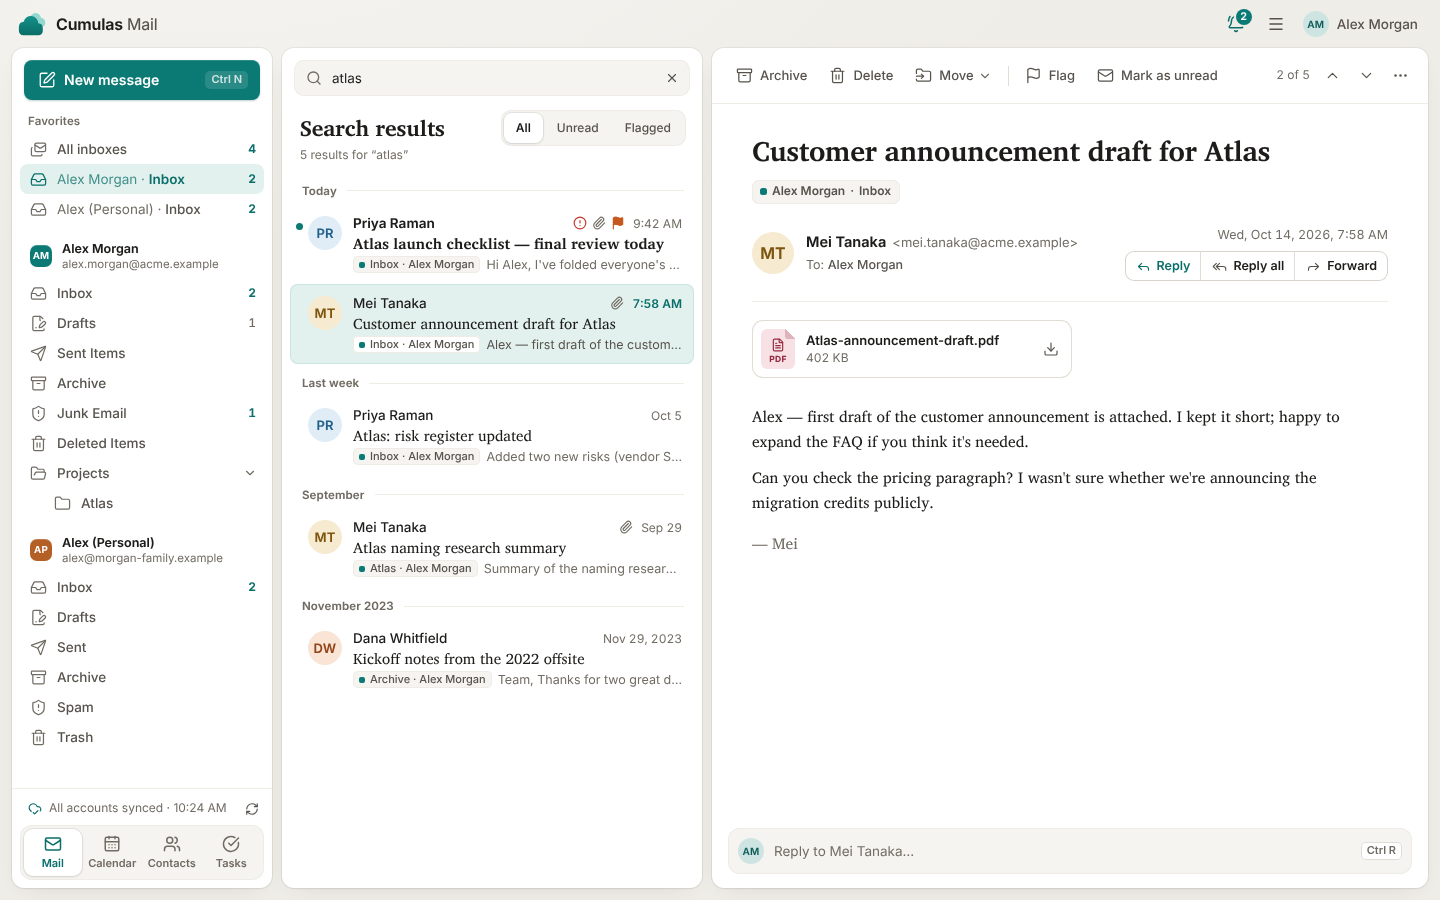
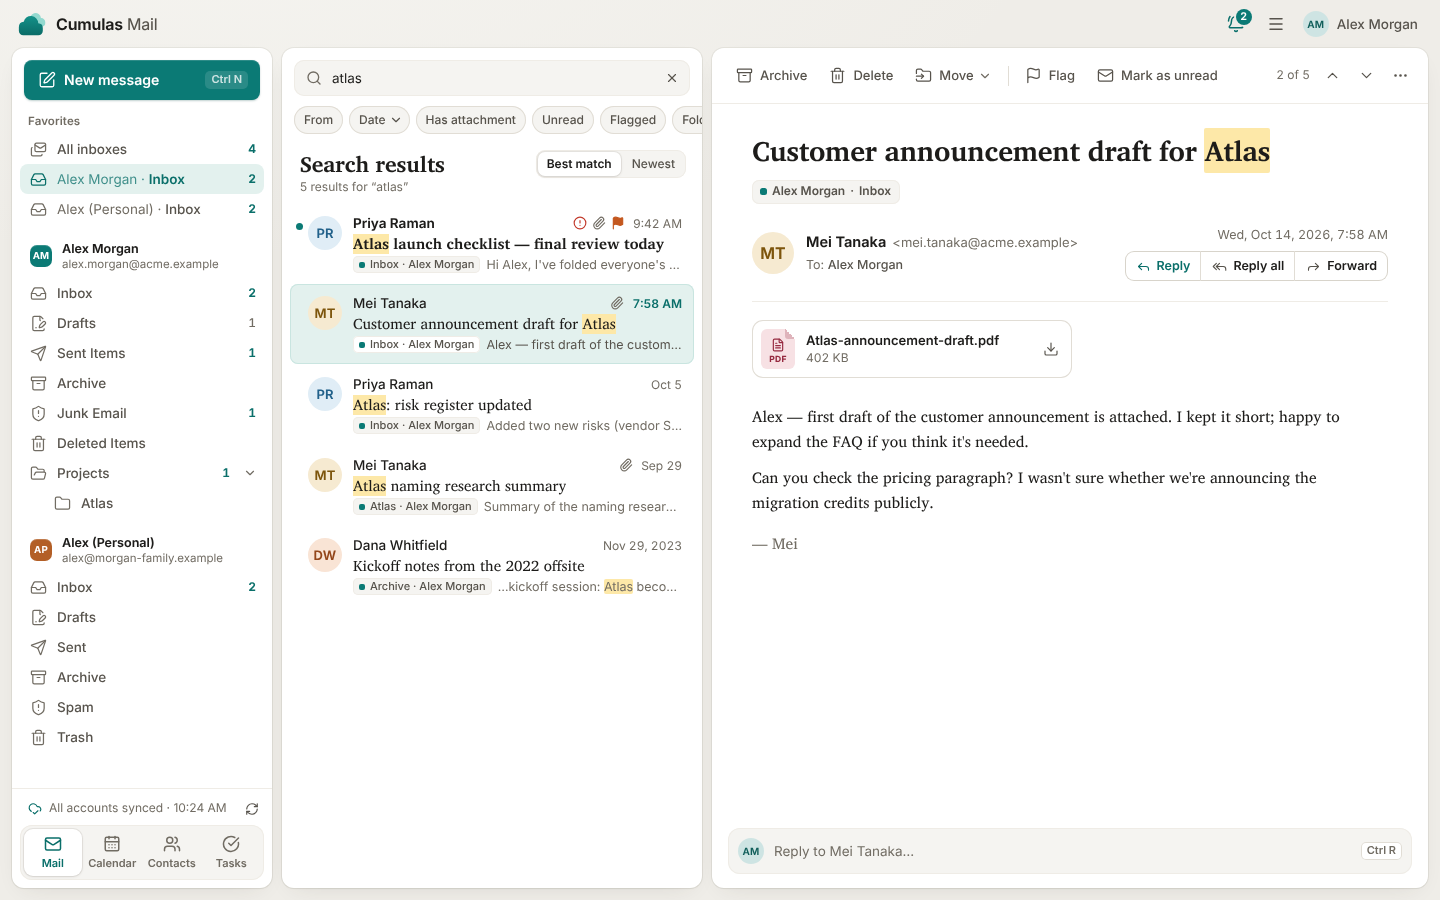
Document the better search
README's Search bullet lists the filters, best-match order, suggestions
and highlighting, and dates leave the "not built yet" list. PRIVACY
names the recent searches kept on the device and says the filters chosen
go to the mail servers with the words. The architecture's Search section
covers the query's filters, ranking on the device, the server paging and
post-filter, and the UI; Security describes the bridge's inbound
messages. The mail-search screenshot shows the filters, the sort and the
marked words.

Claude-Session: https://claude.ai/code/session_01AHi2wzzMsw64bPY9ZRUbF9

diff --git a/docs/architecture.md b/docs/architecture.md
@@ -21,7 +21,7 @@ system webview (WebKitGTK on Linux).
 │  reminders/ which reminders are due (a pure planner)               │
 │  signatures/ company signatures (Cumulas Signatures client)        │
 │  store/     SQLite cache (+ FTS5 full-text indexes)                │
-│  search/    the search language, for FTS5, Graph KQL, IMAP SEARCH  │
+│  search/    the search language and ranking, for FTS5, Graph, IMAP │
 │  providers/ MailProvider · CalendarProvider · ContactsProvider ·   │
 │             TasksProvider                                          │
 │     ├─ graph/  Microsoft 365 & Outlook.com (Microsoft Graph)       │
@@ -273,8 +273,22 @@ and offline, and each account's whole mailbox on its server, whose finds come
 in after.
 
 **The query** (`crates/core/src/search`): one parser for words, `"phrases"`,
-`from:`, `to:`, `cc:`, `subject:`, `body:` and `has:attachment`. Anything else
-is a word, and no input is an error (at most 16 terms). It becomes:
+`from:`, `to:`, `cc:`, `subject:`, `body:` and `has:attachment`, and the
+filters `is:unread`, `is:read`, `is:flagged`, `in:<folder>`,
+`account:<account>`, `received:`, `after:` and `before:`. Anything else is a
+word, a filter with a value it doesn't know is left out, and no input is an
+error (at most 16 terms, and 8 dates, folders and accounts). Dates
+(`dates.rs`) are a day (`2026-10-01`), a range for `received:`
+(`2026-10-01..2026-10-15`, open at either end) or one of KQL's words
+(`today`, `"this week"`, `"last month"`…), as days in the computer's time zone,
+with weeks starting on the day the UI's locale says; `after:` includes its
+day, `before:` doesn't, and clauses intersect. `in:` and `account:` values are
+kept as scope keys (`scope.rs`: composed, without quotes, backslashes or
+control characters, whitespace runs as one space, lowercased), and folder and
+account names are keyed alike before they're compared, so what the filters
+write always names its folder again; `in:` also takes a role (`inbox`, `sent`,
+`spam`…). Where to look alone, or `is:read`, is too little to ask the servers
+for. It becomes:
 
 - for the device (`fts.rs`), FTS5 matches on two indexes keyed by
   `messages.fts_rowid`, a rowid each message row keeps, so indexing or
@@ -283,32 +297,79 @@ is a word, and no input is an error (at most 16 terms). It becomes:
   subject, sender, To, Cc and body (a message's text once it's been opened, its
   preview before) and matches words by their start; `messages_infix`, a
   trigram index of subjects and senders, matches inside words from 3
-  characters ("voice" finds "Invoice");
-- for Microsoft Graph (`kql.rs`), KQL for `$search`: words as prefixes
-  (`invoi*`), matched in the sender, subject and body;
+  characters ("voice" finds "Invoice"). The filters are conditions on the
+  message rows;
+- for Microsoft Graph (`kql.rs`), KQL for `$search` when there are words:
+  words as prefixes (`invoi*`), matched in the sender, subject and body, and
+  the dates as `received>=MM/DD/YYYY` and `received<=MM/DD/YYYY`, a day wider
+  on each side (KQL compares dates in UTC). Without words, a `$filter` on
+  `receivedDateTime`, `isRead`, `flag/flagStatus` and `hasAttachments`;
 - for IMAP (`imap.rs`), `UID SEARCH` keys (`FROM`, `SUBJECT`…, which match
   substrings; a plain word is `OR`ed over sender, To, Cc, subject and body,
   where the device looks, not `TEXT`, which looks in every header too), with
   `CHARSET UTF-8` and literals only when a word isn't ASCII, in the case it
-  was typed in.
+  was typed in; `FLAGGED`, `SEEN` and `UNSEEN`; and `SINCE` and `BEFORE`,
+  which compare the day of `INTERNALDATE` in its own zone (anywhere from
+  UTC−12 to UTC+14), so they are widened to hold for any.
 
-The browser demo's backend (`src/api/mock/searchQuery.ts`) ports the parser
-and the local matching, tested on the same cases, so the UI's tests search the
-way the app does.
+The UI ports the parser to `src/lib/search/query.ts`, tested on the same
+cases, and the browser demo's backend (`src/api/mock/searchQuery.ts`) adds
+the local matching, so the UI's tests search the way the app does.
+
+**On this device** (`Store::search`), under one hold of the store: the
+messages that match and pass the filters, newest first, 5,000 at most, plus
+the server hits the UI passes back (`includeIds`), which the filters apply to
+too. A query with a plain, `subject:` or `body:` word is then ranked best
+first (`rank.rs`; `from:`, `to:` and `cc:` alone only pick by address, and
+list newest first, as "Newest" does):
+
+- a term found in the subject or sender (one FTS5 probe per word,
+  `{subject sender} : …`) counts 1, one found only elsewhere 0.3; a message's
+  field share is the mean over its ranked terms;
+- bm25 (columns weighted 10, 8, 3, 2 and 1) decides the last quarter of that,
+  relative to the best match: relevance is `field × (0.75 + 0.25 × bm25/best)`;
+  a match only inside words gets 0.6, a server hit the index doesn't match
+  (it matched text the device hasn't seen) 0.225;
+- recency decides all but 0.4 of the score, halving every 30 days.
+
+So a match in the subject or sender (at least `0.75 × 0.4 = 0.3`) ranks above
+one only in the text (at most 0.3) at any age, and within each, recent strong
+matches lead. The first 200 come back, with the server hits, and the first 100
+with a snippet of the text where it matched (FTS5's `snippet()`, cut with
+private-use marks that indexing keeps out of mail, returned as runs of text
+the UI never parses). Every statement that matches `messages_fts` and limits
+rowids writes `+rowid IN (…)`: as `rowid IN (…)`, FTS5 would run the match
+again for every rowid (4 s for 200 of 5,000 rows, against 19 ms), and a test
+checks the plans. At 50,000 messages, two letters that match nearly every one
+rank in about 0.3 s (an ignored test measures it; a prefix index is the next
+step if that grows).
 
 **On the server** (`MailProvider::search`, `service/search.rs`):
-`search_server` asks one account for one page (50 messages) at a time. Graph
-searches every folder with `GET /me/messages?$search=` (which takes no
-`$filter` or `$orderby`) and pages by its own next links. IMAP asks about 25
-folders per round trip, pipelined (`EXAMINE` and `UID SEARCH` for each, then
-the arrival dates of their newest 200 matches), and pages through what it
-found by date; a page spends 20 seconds at most looking, and the cursor
-keeps the folders it didn't get to, and the older matches of busier
-folders (`UID 1:n`), for the pages after. A search id names the search over every account:
-a new one cancels the one before, whose pending calls come back `cancelled`
-and store nothing. A page may take 45 seconds. An account's failure comes back
-in its result, never as an error, so it doesn't hide the others' results or
-the device's.
+`search_server` asks one account for pages of 50. Graph searches every folder
+with `GET /me/messages?$search=` (which takes no `$filter` or `$orderby`), or
+one folder's messages when `in:` names exactly one there, and pages by its
+own next links; filters alone go to `$filter` with
+`$orderby=receivedDateTime desc` (`receivedDateTime` first, as Graph needs),
+which finds old unread or flagged mail `$search` can't say. A mailbox that
+answers a search with dates with 400 is asked again without them, and the
+provider leaves dates to the device from then on (until the app restarts).
+IMAP asks about 25 folders per round trip (or the ones `in:` names),
+pipelined (`EXAMINE` and `UID SEARCH` for each, then the arrival dates of
+their newest 200 matches), and pages through what it found by date; a page
+spends 20 seconds at most looking, and the cursor keeps the folders it
+didn't get to, and the older matches of busier folders (`UID 1:n`), for the
+pages after. Servers can't say every filter (Graph has no read or flagged
+with words, nor several folders; IMAP's dates are in each server's zones), so
+each message they find is checked against the query's filters, exactly,
+before it is stored; since that can empty a page, one call reads pages until
+25 messages pass, the server has no more, or it read 5. A search for another
+account (`account:`), for no folder there or for no time asks nothing. A
+search id names the search over every account: a new one cancels the one
+before, whose pending calls come back `cancelled` and store nothing. A call
+may take 45 seconds, all its pages included; a page that fails after others
+were read keeps what they found and is asked for again by "Show more
+results". An account's failure comes back in its result, never as an error,
+so it doesn't hide the others' results or the device's.
 
 **What it finds is stored**, as rows marked `search_only`, and returned as
 local ids. The UI passes them to the local search (`includeIds`), so every
@@ -324,16 +385,32 @@ search last found them or they were last opened, and beyond 2,000 per account
 (after each sync of the account, even one that fails). Read and flag changes made elsewhere reach them when a
 search next finds them.
 
-**In the UI** (`modules/mail/serverSearch.ts`, `MessageList.tsx`): the local
-search runs 150 ms after typing stops, the servers are asked after 600 ms.
-The server search's state is kept out of React Query, so the `data-changed`
-of every sync doesn't ask the servers again; the local search's key carries
-how many server hits it includes. Single letters are left to the device.
-"Searching your whole mailbox…" shows beside the count while servers answer
-(never "No results"), a failed account gets a row above the results with Try
-again (Sign in again when its sign-in failed), and "Show more results" asks
-for the next pages, up to the 1,000 hits a local search includes. The Unread
-and Flagged filters apply to results too, and say so when they hide some.
+**In the UI** (`modules/mail/search/`, `modules/mail/serverSearch.ts`,
+`MessageList.tsx`): the search text is the only state. The filters above the
+results (From, Date, Has attachment, Unread, Flagged, Folder, Account) are a
+view of the parsed text and edit it, so typed and clicked filters never
+disagree, and they show only while there is text; with an empty box, the
+suggestions offer the same filters. While searching, the folder's
+All/Unread/Flagged control is gone. Results are best first or newest first
+("Sort results", kept per device); best first keeps the rows already shown in
+their places while servers answer, and new ones join below them, best first,
+until the text or the sort changes. The search box is a combobox: suggestions
+offer recent searches, people (`suggestAddresses`, which without text gives
+the people who wrote most lately), filters, folders, accounts and dates for
+the operator being typed. Recent searches (the last 8) are kept in
+localStorage, on this device only. The local search runs 150 ms after typing
+stops, the servers are asked after 600 ms. The server search's state is kept
+out of React Query, so the `data-changed` of every sync doesn't ask the
+servers again; the local search's key carries how many server hits it
+includes. "Searching your whole mailbox…" shows beside the count while servers
+answer (never "No results"; "No results so far" while a server has more to
+look through), a failed account gets a row above the results with Try again
+(Sign in again when its sign-in failed), and "Show more results" asks for the
+next pages, up to the 1,000 hits a local search includes. The words found are
+highlighted in the rows (from the parsed text, for server hits too, and in
+the snippet) and in the open message: in plain text by the app, in HTML by
+the frame's bridge, which marks visible text by splitting text nodes; F3 and
+Shift+F3 step through them.
 
 ## Security
 
@@ -355,7 +432,11 @@ and Flagged filters apply to results too, and say so when they hide some.
   run anyway, the bridge limits what it can change: its listeners are called
   first, it reads events and links through getters taken before the mail is
   parsed, and a link clicked with the pointer opens only if it still leads
-  where it did when the pointer went down on it.
+  where it did when the pointer went down on it. To highlight search words,
+  the bridge accepts only `highlight` and `reveal` from the app, trusted, from
+  the parent, carrying a second token the frame never sends (so reading the
+  frame's messages can't forge the app's), keeps them from other listeners in
+  the frame, and marks text by splitting text nodes, never parsing markup.
 - Signatures, which go into messages the person sends, are sanitized more
   strictly: pictures and CSS backgrounds only over HTTPS or as `data:` images,
   links only to `http`, `https`, `mailto` and `tel`, and no CSS that imports,
@@ -399,7 +480,9 @@ fails with `permissionRequired`, and its cached data is dropped. See
 1. Implement the relevant traits from `crates/core/src/providers/mod.rs`,
    deriving local ids with `model::local_id`. `MailProvider::search` is
    optional: without it, an account's server search fails with a message,
-   and its local search still works.
+   and its local search still works. It may return more than the query's
+   filters let through (filters the server can't say): the service checks
+   each message before storing it.
 2. Return a `ProviderSet` for the new account kind from
    `service/connector.rs`.
 3. Add the account kind to `model::AccountSettings` and to `src/api/types.ts`.

diff --git a/README.md b/README.md
@@ -45,13 +45,20 @@ and restarts into it when you choose Restart (see
   Ctrl+Shift+R, Ctrl+F, Ctrl+Q or Q to mark read…).
 - **Search**: instant and offline in the mail on your computer, and across
   each account's whole mailbox on its server, in every folder and however
-  old, with what the server finds added as it comes (newest first, 50 at a
-  time, up to 1,000). Words match by their start (and inside subjects and senders);
-  `"exact phrases"`, `from:`, `to:`, `cc:`, `subject:`, `body:` and
-  `has:attachment` narrow it down. Messages found on the server open, move
-  and flag like any other. On your computer, a message's text is searched
-  once you've opened it (its preview before that); Gmail's All Mail folder
-  isn't searched on the server.
+  old, with what the server finds added as it comes (50 at a time, up to
+  1,000). Best matches come first (messages with your words in the subject or
+  sender before those with them only in the text, recent mail leading), or
+  switch to newest first. Words match by their start (and inside subjects and
+  senders); `"exact phrases"`, `from:`, `to:`, `cc:`, `subject:`, `body:`,
+  `has:attachment`, `is:unread`, `is:read`, `is:flagged`, `in:`, `account:`,
+  `received:` (a day, a range such as `2026-10-01..2026-10-15`, or `today`,
+  `"this week"`…), `after:` and `before:` narrow it down, and the filters
+  above the results write them for you. Suggestions offer people, filters and
+  your recent searches, and the words found are highlighted in the results and
+  in the message (F3 for the next). Messages found on the server open, move
+  and flag like any other. On your computer, a message's text is searched once
+  you've opened it (its preview before that); Gmail's All Mail folder isn't
+  searched on the server.
 - **Signatures**: a signature of your own for each account and, for
   Microsoft 365 work and school accounts whose organization uses Cumulas
   Signatures, the company signature, added automatically with nothing to set
@@ -166,7 +173,7 @@ CI runs all of these, plus a Flatpak build.
 Not built yet: saving drafts to the server, conversation threading, recurring
 event editing (single occurrence vs series), CalDAV/CardDAV for IMAP accounts,
 `mailto:` handling, OAuth for Gmail/Yahoo IMAP (app passwords work today), and
-`OR`, `NOT` and dates in searches.
+`OR` and `NOT` in searches.
 
 ## License
 

diff --git a/PRIVACY.md b/PRIVACY.md
@@ -11,7 +11,7 @@ signature when your organization sets one up there.
 Cumulas Mail has no telemetry, no analytics, no crash reporting and no
 advertising, and you don't need a Cumulas account.
 
-_Last updated: October 17, 2026._
+_Last updated: October 18, 2026._
 
 ## What the app keeps on your computer
 
@@ -31,6 +31,9 @@ _Last updated: October 17, 2026._
   same database.
 - **Attachments you open**, in the app's cache folder,
   `~/.cache/co.cumulas.Mail/`.
+- **Your recent searches** (the last 8), so the search box can suggest them, in
+  the app's data folder. "Clear recent searches" in the search box's suggestions
+  deletes them.
 - **Passwords and sign-in tokens**, in your desktop's keyring (GNOME Keyring
   or KWallet), never in the app's database.
 - **An installation ID**: a random string made once, which the push service
@@ -102,9 +105,9 @@ which serves the page, may log the request, as its
 [privacy statement](https://docs.github.com/site-policy/privacy-policies/github-general-privacy-statement)
 describes.
 
-When you search your mail, the words you type go to the mail servers of your
-accounts (Microsoft, or your IMAP server), so that each can search your whole
-mailbox, and never to Cumulas.
+When you search your mail, the words you type and the filters you choose (such
+as dates, or unread) go to the mail servers of your accounts (Microsoft, or your
+IMAP server), so that each can search your whole mailbox, and never to Cumulas.
 
 Pictures and other content from the internet in messages are blocked unless
 you allow them, because loading them can tell senders when and where you
